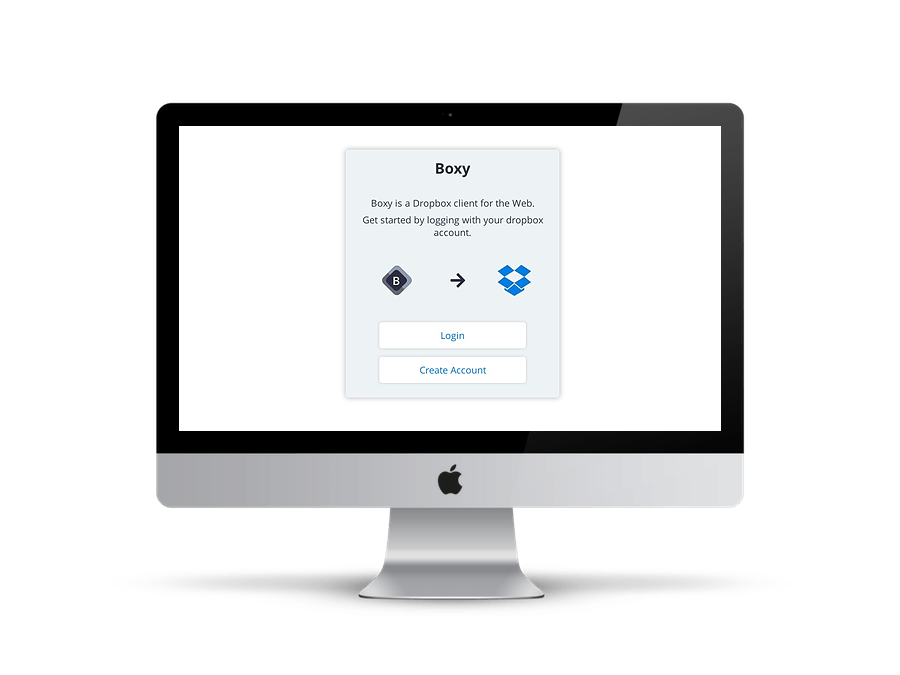
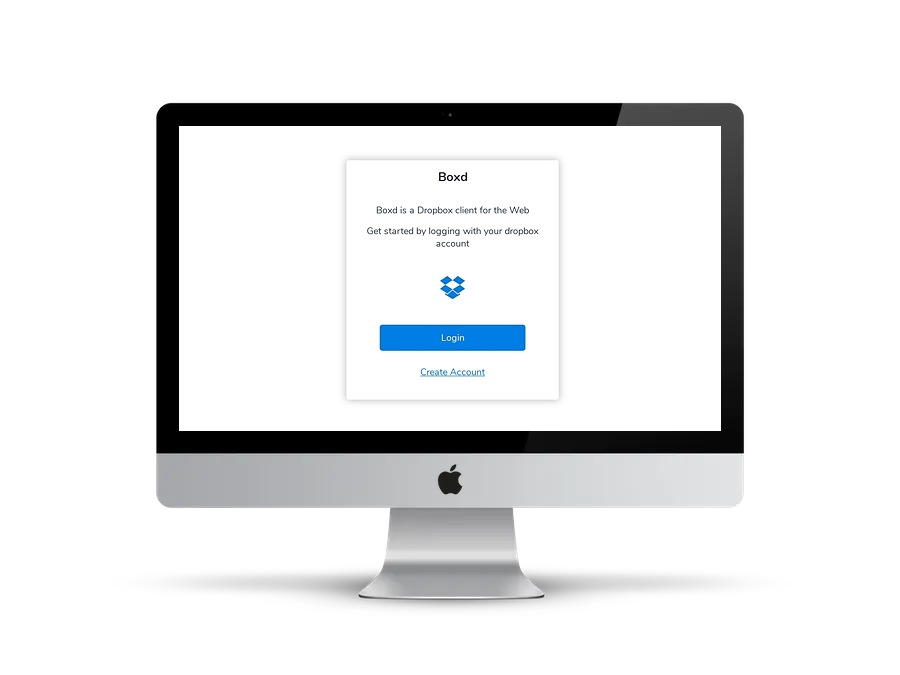
renaming boxy to boxd updating images for boxd

diff --git a/src/data/projects.js b/src/data/projects.js
@@ -10,6 +10,17 @@ export default [
     logo: 'flixyLogo',
   },
   {
+    id: 3,
+    name: 'Boxy',
+    mock: 'boxyMock',
+    tech: ['vue', 'node', 'typescript', 'graphql', 'apollo'],
+    git: 'https://github.com/prabhuignoto/boxy',
+    description: `Boxd is a modern webapp created to make access to Dropbox data easier and simple.
+       Boxd is built with Vue.js, and the goal was to create an intuitive user interface experience.`,
+    appUrl: 'https://github.com/prabhuignoto/boxy',
+    logo: 'boxyLogo',
+  },
+  {
     id: 2,
     name: 'Newsquirrel',
     mock: 'newSquirrelMock',
@@ -30,17 +41,6 @@ export default [
   V-Slide packs some great features like slide show mode, thumbnail previews, touch support and many more.`,
     appUrl: 'https://v-slide.netlify.com',
     logo: 'vSlideLogo',
-  },
-  {
-    id: 3,
-    name: 'Boxy',
-    mock: 'boxyMock',
-    tech: ['vue', 'node', 'typescript', 'graphql', 'apollo'],
-    git: 'https://github.com/prabhuignoto/boxy',
-    description: `Boxy is a modern webapp created to make access to Dropbox data easier and simple.
-       Boxy is built with Vue.js, and the goal was to create an intuitive user interface experience.`,
-    appUrl: 'https://github.com/prabhuignoto/boxy',
-    logo: 'boxyLogo',
   },
   {
     id: 1,
